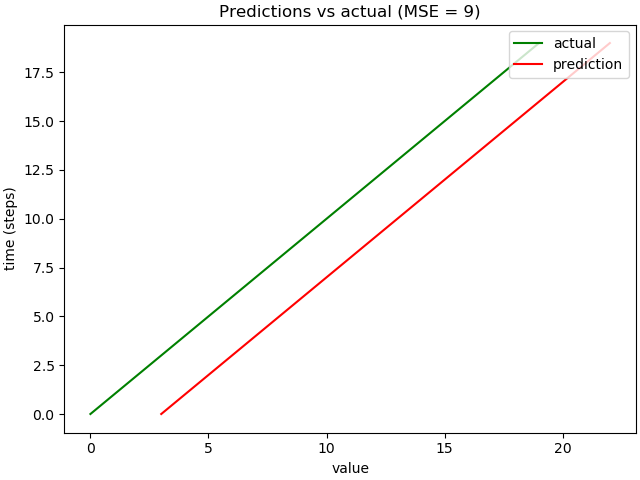
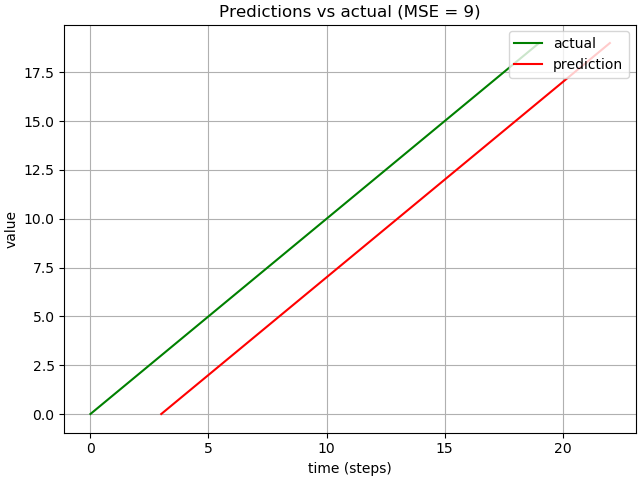
some house keeping on Compareprediction

diff --git a/data/series/ComparePrediction.py b/data/series/ComparePrediction.py
@@ -12,8 +12,8 @@ from hdlib.base import Base
 class ComparePrediction(Base):
     __LABELACT   = "actual"
     __LABELPRED  = "prediction"
-    __LABELX     = "time (steps)"
-    __LABELY     = "value"
+    __LABELX     = "value"
+    __LABELY     = "time (steps)"
     __TITLECMP   = 'Predictions vs actual'
     __TITLENAIVE = 'Prediction skewed to check naive forecast'
     __LEGENDLOC  = "upper right"
@@ -61,7 +61,7 @@ class ComparePrediction(Base):
 
 
 
-    def commonPoints(self) -> (np.array,np.array):
+    def commonPoints(self) -> (np.array, np.array):
         """
         These views have horizon samples less than the originals: actual and predict
 
@@ -74,10 +74,11 @@ class ComparePrediction(Base):
             Note: If predict is the same as actual (naive forecasting): actual == predict
         """
         return  (self.__actual[self.__horizon:], \
-                 self.__predict[:self.__nsamples-self.__horizon])
+                 #self.__predict[:self.__nsamples-self.__horizon])
+                 self.__predict[:-self.__horizon])
                  
 
-
+ 
     def plot(self, begin=0, end=-1, overlap=False, 
                    labelact=__LABELACT, labelpred=__LABELPRED,
                    labelx=__LABELX, labely=__LABELY,

diff --git a/data/series/ComparePrediction_test.py b/data/series/ComparePrediction_test.py
@@ -76,7 +76,8 @@ class TestComparePrediction(unittest.TestCase):
     def testPlotCMP0(self):
         fig, axs = cpnaive.plot(xtatitle=" (MSE = " + str(mse1) +")")
         buffer = io.BytesIO()
-        fig.savefig(buffer) #fig.savefig('figcmp.png')
+        fig.savefig(buffer)
+        #fig.savefig('figcmp.png')
         file = open('testdata/figcmp.png','rb')
         self.assertEqual(buffer.getvalue(), file.read())
         buffer.close()
@@ -86,7 +87,8 @@ class TestComparePrediction(unittest.TestCase):
     def testPlotNAIVE0(self):
         fig, axs = cpnaive.plot(overlap=True, xtatitle=" (overlapping is bad)")
         buffer = io.BytesIO()
-        fig.savefig(buffer) #fig.savefig('fignaive.png')
+        fig.savefig(buffer)
+        #fig.savefig('fignaive.png')
         file = open('testdata/fignaive.png','rb')
         self.assertEqual(buffer.getvalue(), file.read())
         buffer.close()
